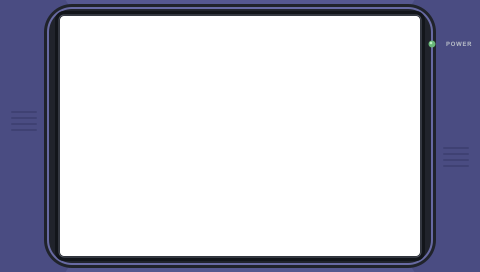
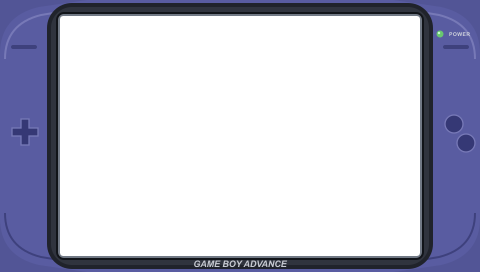
Refine handheld borders to match original hardware

Changed region(s): [[0.0, 0.0, 1.0, 1.0]]

diff --git a/assets/overlays/README.md b/assets/overlays/README.md
@@ -1,8 +1,11 @@
 # RetroShell handheld borders
 
-These GB, GBC, and GBA borders are original RetroShell assets. They use
-hardware-inspired proportions and colors without copying console logos, game
-artwork, or third-party overlay packs.
+These GB, GBC, and GBA borders are original RetroShell vector assets. They use
+hardware-inspired proportions, colors, controls, and model-name typography
+without copying game artwork or third-party overlay packs.
 
 The source SVGs and generated PNGs are covered by RetroShell's root MIT
 license.
+
+Game Boy, Game Boy Color, and Game Boy Advance are trademarks of Nintendo.
+RetroShell is not affiliated with or endorsed by Nintendo.
